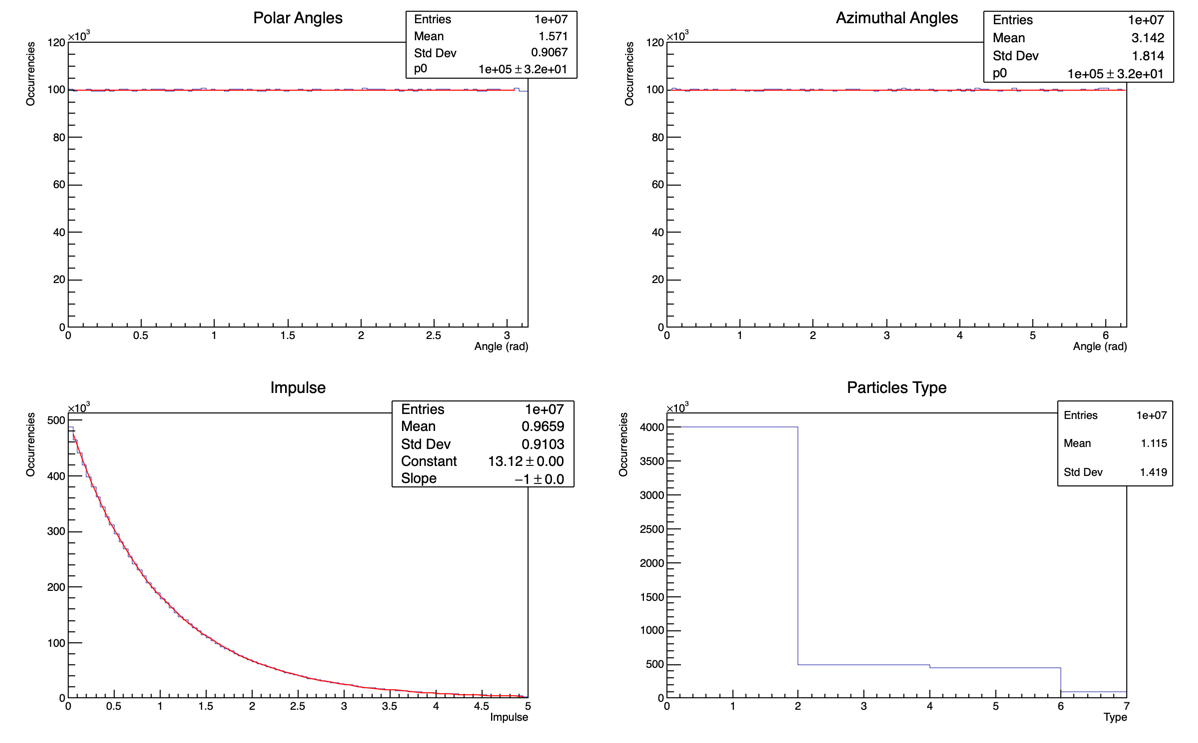
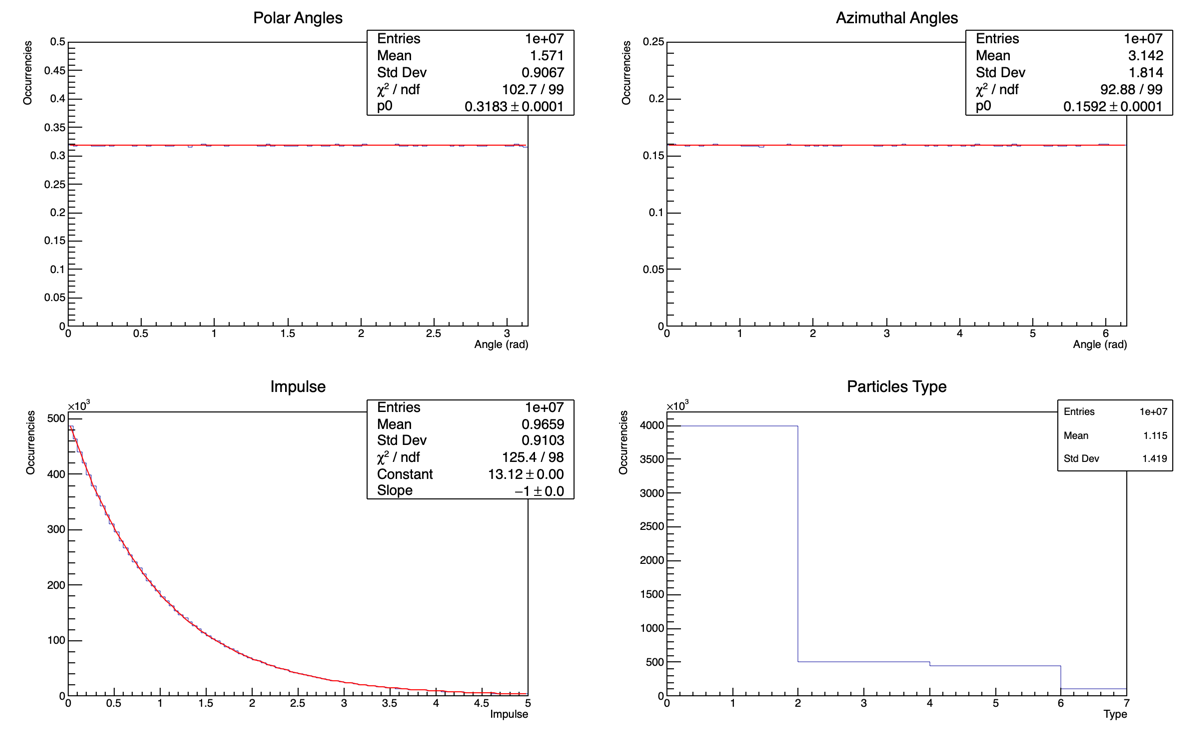
Changed image:now with normalized histogram Fix table data

diff --git a/Relazione progetto ROOT.tex b/Relazione progetto ROOT.tex
@@ -144,8 +144,8 @@ Riportiamo le tabelle delle occorrenze dei tipi di particelle, distribuzione di 
     \begin{tabular}{c|c|c|c|c} % 
       \textbf{Distribuzione} & \textbf{parametri del fit} & \textbf{$\chi$} & \textbf{DOF} & \textbf{$\chi$/DOF}\\
       \hline
-      Angolo polare & 3.142 $\pm$ 0.005 & 102.69 & 99 & 1.04\\
-      Angolo azimutale & 6.283 $\pm$ 0.005 & 92.88 & 95 & 0.98 \\
+      Angolo polare & 0.3183 $\pm$ 0.0001 & 102.69 & 99 & 1.04\\
+      Angolo azimutale & 0.1592 $\pm$ 0.0001 & 92.88 & 99 & 0.94 \\
       Impulso & -1.0003 $\pm$ 0.0003 & 125.42 & 98 & 1.28\\
     \end{tabular}
   \end{center}
